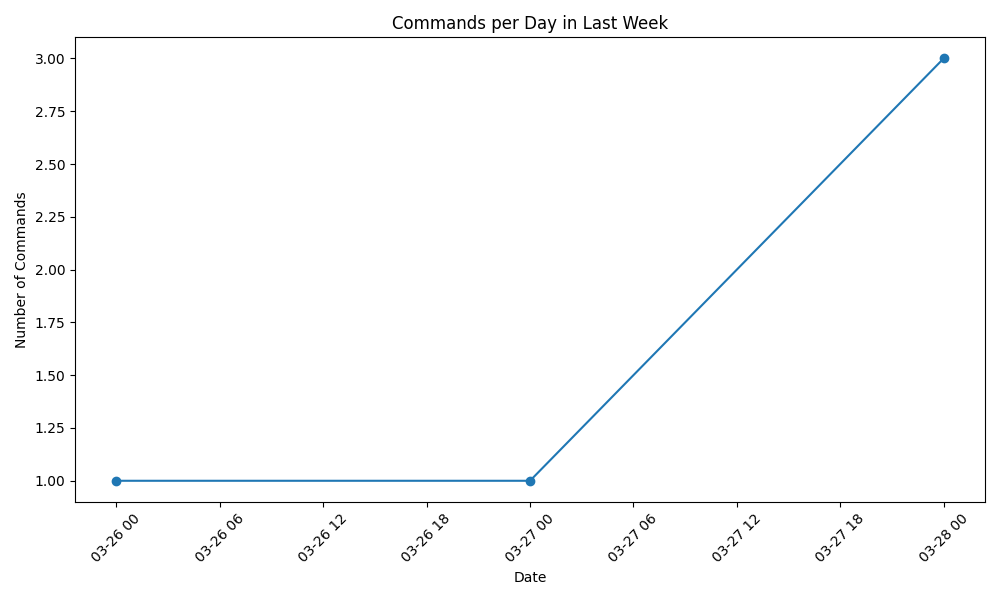
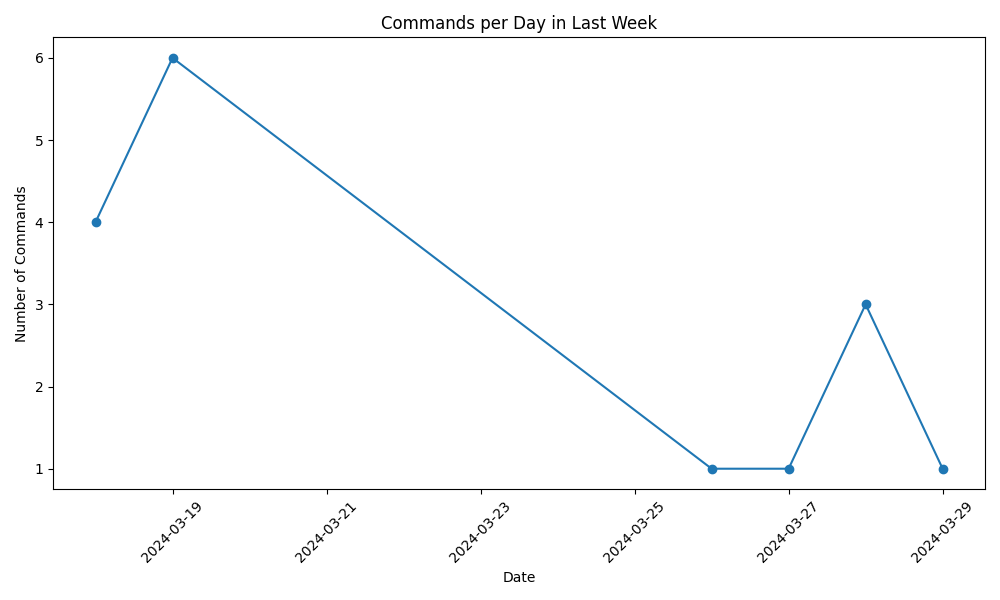
Fix days in commands plot

diff --git a/matplot/views.py b/matplot/views.py
@@ -11,7 +11,7 @@ def commands_last_week():
     try:
         # Calculate the start and end dates for the last week
         end_date = timezone.now()
-        start_date = end_date - timedelta(days=7)
+        start_date = end_date - timedelta(days=14)
 
         # Filter Commande objects for the last week
         commandes_last_week = Commande.objects.filter(date__gte=start_date, date__lte=end_date)
